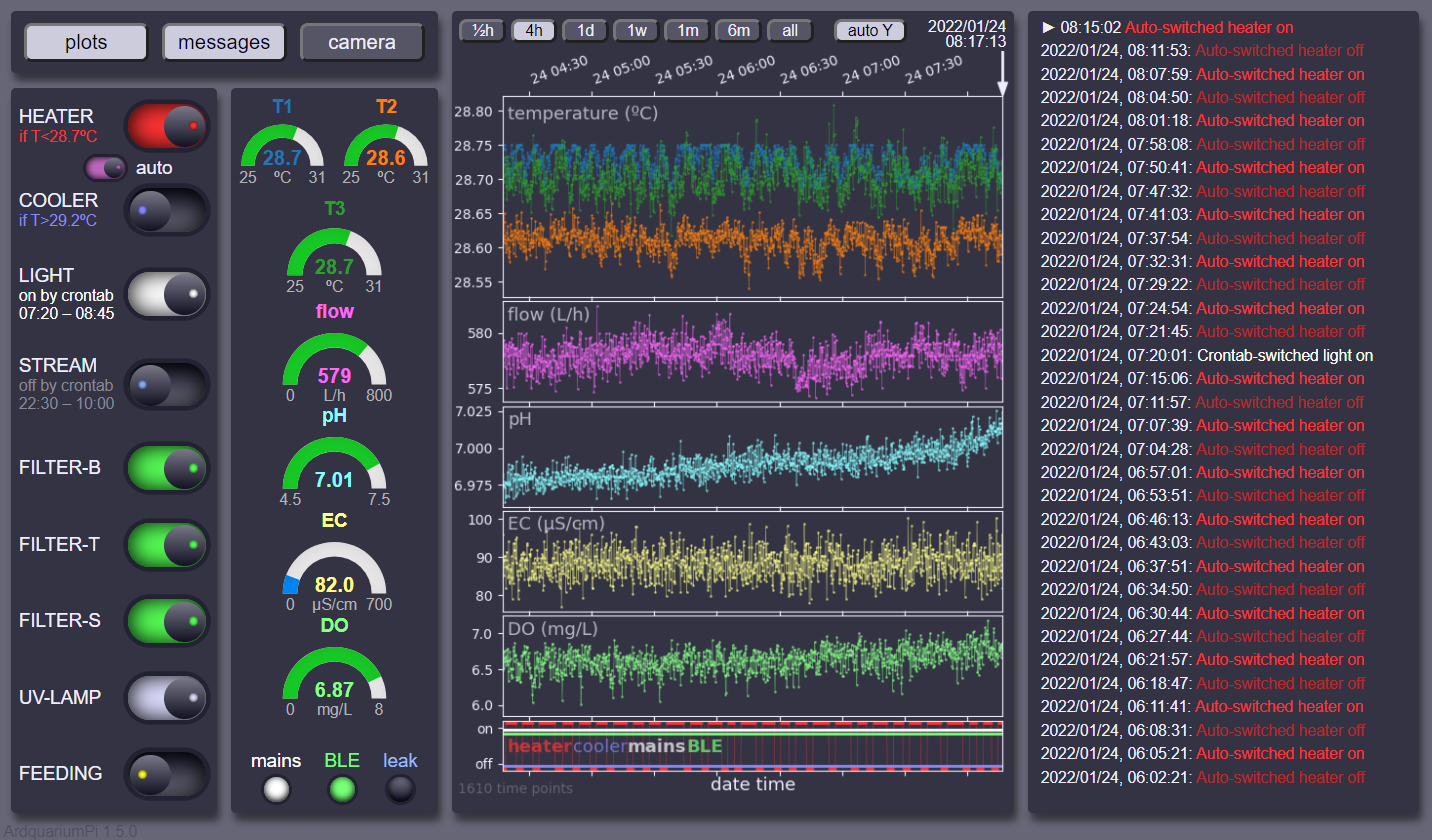
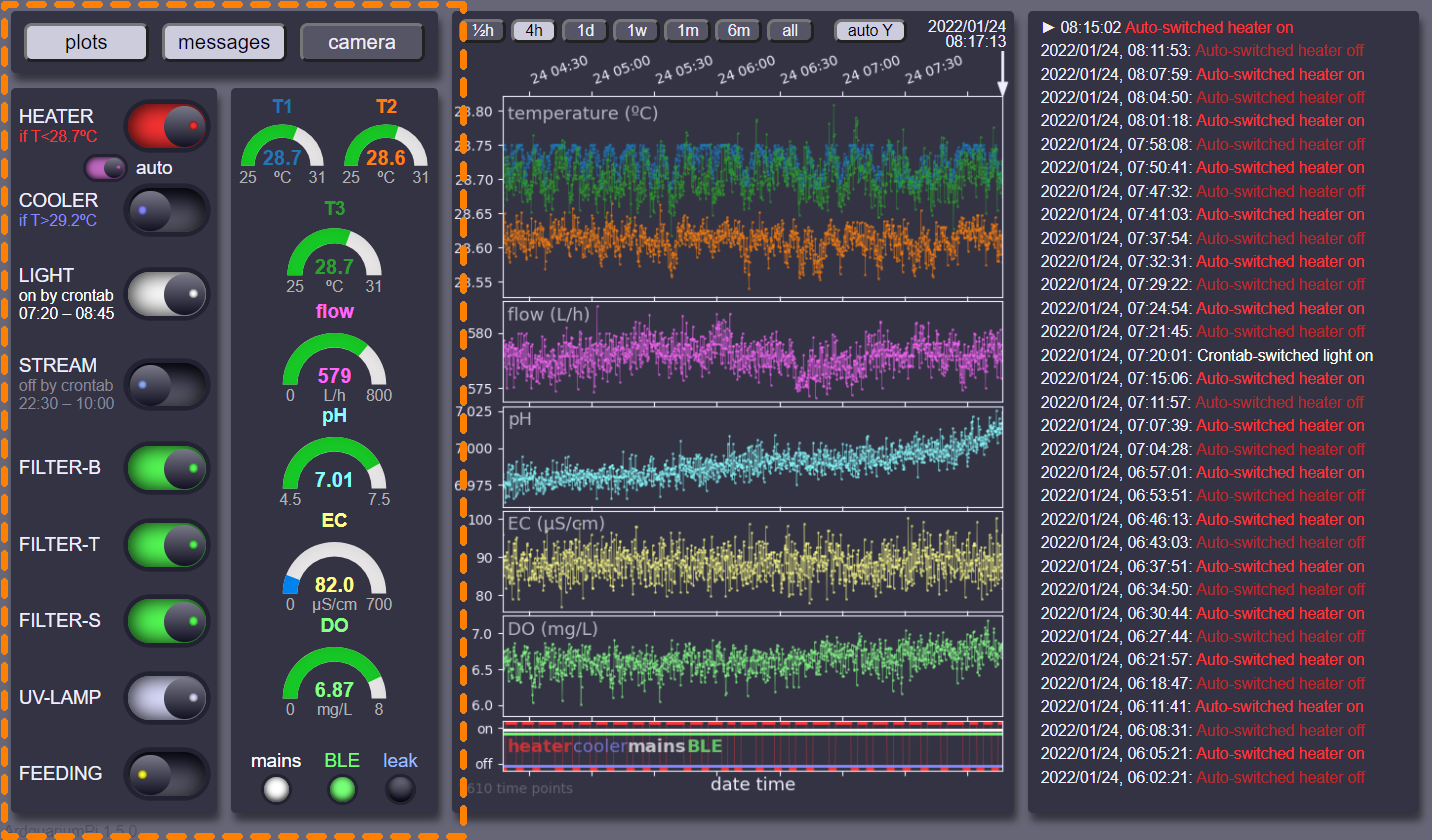
update README.md

Changed region(s): [[0.0, 0.0, 0.338, 1.0]]

diff --git a/README.md b/README.md
@@ -17,9 +17,9 @@ GUI
 ---
 
 The main program runs on a Raspberry Pi in Python and uses Flask. The main
-display elements -- switches and gauges -- fit a vertical phone screen. All
-other less critical display elements, such as plots, are added on a side to
-sweep the web page sideways.
+display elements -- switches and gauges -- fit a vertical phone screen, marked
+by the orange rectangle above. All other less critical display elements, such
+as plots, are added on a side to sweep the web page sideways.
 
 Hardware
 --------
